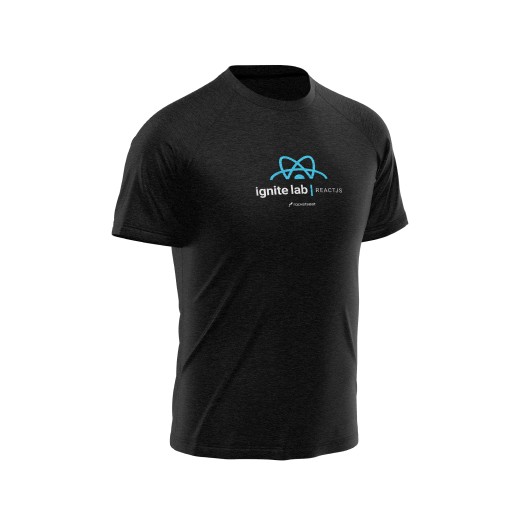
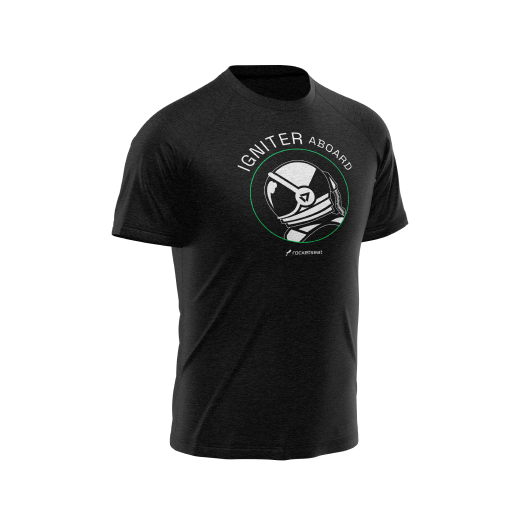
Integração com Stripe - Buscando produtos do Stripe

Changed region(s): [[0.4615, 0.2462, 0.6769, 0.4923]]

diff --git a/src/pages/index.tsx b/src/pages/index.tsx
@@ -1,16 +1,23 @@
 import Image from "next/image"
 
-import { useKeenSlider } from 'keen-slider/react'
-
-import { HomeContainer, Product } from "../styles/pages/home"
-
-import camiseta1 from '../assets/1.png'
-import camiseta2 from '../assets/2.png'
-import camiseta3 from '../assets/3.png'
+import Stripe from "stripe"
+import { stripe } from "@/lib/stripe"
+import { GetServerSideProps } from "next"
 
 import 'keen-slider/keen-slider.min.css'
+import { useKeenSlider } from 'keen-slider/react'
+import { HomeContainer, Product } from "../styles/pages/home"
 
-export default function Home() {
+interface HomeProps {
+  products: {
+    id: string,
+    name: string,
+    price: number,
+    imageUrl: string
+  }
+}
+
+export default function Home({ products }: HomeProps) {
   const [sliderRef] = useKeenSlider({
     slides: {
       perView: 3,
@@ -20,41 +27,44 @@ export default function Home() {
 
   return (
     <HomeContainer ref={sliderRef} className="keen-slider">
-      <Product className="keen-slider__slide">
-        <Image src={camiseta1} width={520} height={480} alt="" />
+      {products.map(product => {
+        return (
+          <Product key={product.id} className="keen-slider__slide">
+            <Image src={product.imageUrl} width={520} height={480} alt="" />
 
-        <footer>
-          <strong>Camiseta X</strong>
-          <span>R$ 79,90</span>
-        </footer>
-      </Product>
-
-      <Product className="keen-slider__slide">
-        <Image src={camiseta2} width={520} height={480} alt="" />
-
-        <footer>
-          <strong>Camiseta X</strong>
-          <span>R$ 79,90</span>
-        </footer>
-      </Product>
-
-      <Product className="keen-slider__slide">
-        <Image src={camiseta3} width={520} height={480} alt="" />
-
-        <footer>
-          <strong>Camiseta X</strong>
-          <span>R$ 79,90</span>
-        </footer>
-      </Product>
-
-      <Product className="keen-slider__slide">
-        <Image src={camiseta3} width={520} height={480} alt="" />
-
-        <footer>
-          <strong>Camiseta X</strong>
-          <span>R$ 79,90</span>
-        </footer>
-      </Product>
+            <footer>
+              <strong>{product.name}</strong>
+              <span>{product.price}</span>
+            </footer>
+          </Product>
+        )
+      })}
     </HomeContainer>
   )
+}
+
+export const getServerSideProps: GetServerSideProps = async () => {
+  const response = await stripe.products.list({
+    expand: ['data.default_price']
+  })
+
+
+  const products = response.data.map(product => {
+    const price = product.default_price as Stripe.Price
+
+    return {
+      id: product.id,
+      name: product.name,
+      price: price.unit_amount,
+      imageUrl: product.images[0],
+    }
+  })
+
+  return {
+    props: {
+      products
+    }
+  }
+
+
 }

diff --git a/next.config.js b/next.config.js
@@ -1,6 +1,10 @@
 /** @type {import('next').NextConfig} */
 const nextConfig = {
   reactStrictMode: true,
+
+  images: {
+    domains: ['files.stripe.com']
+  },
 }
 
 module.exports = nextConfig

diff --git a/src/lib/stripe.ts b/src/lib/stripe.ts
@@ -1,0 +1,8 @@
+import Stripe from 'stripe'
+
+export const stripe = new Stripe(process.env.STRIPE_SECRET_KEY, {
+  apiVersion: '2022-11-15',
+  appInfo: {
+    name: 'Ignite Shop'
+  }
+})
